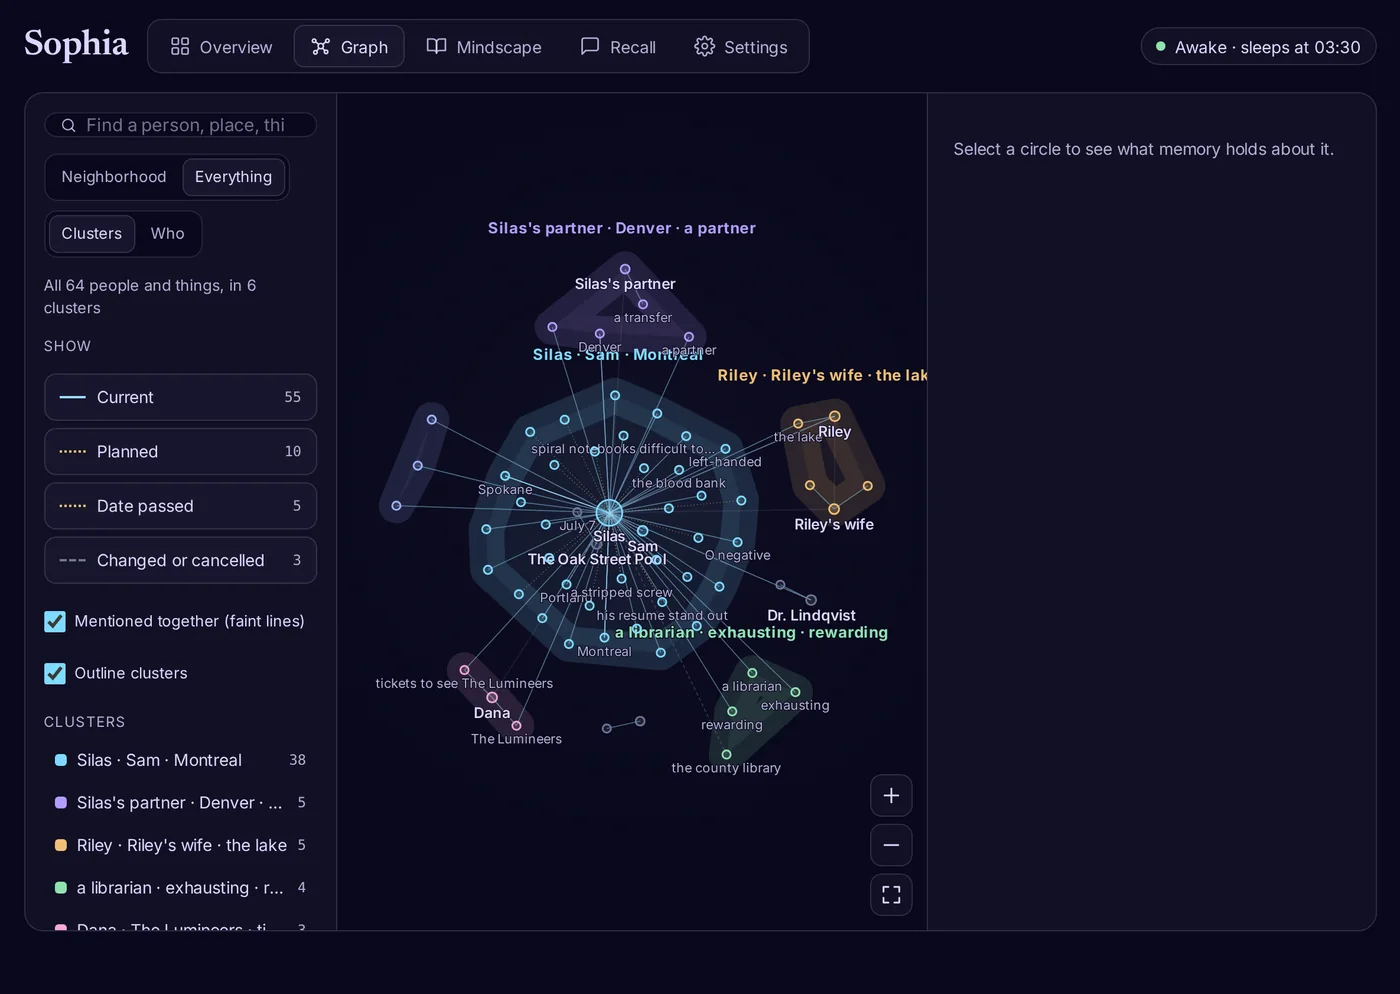
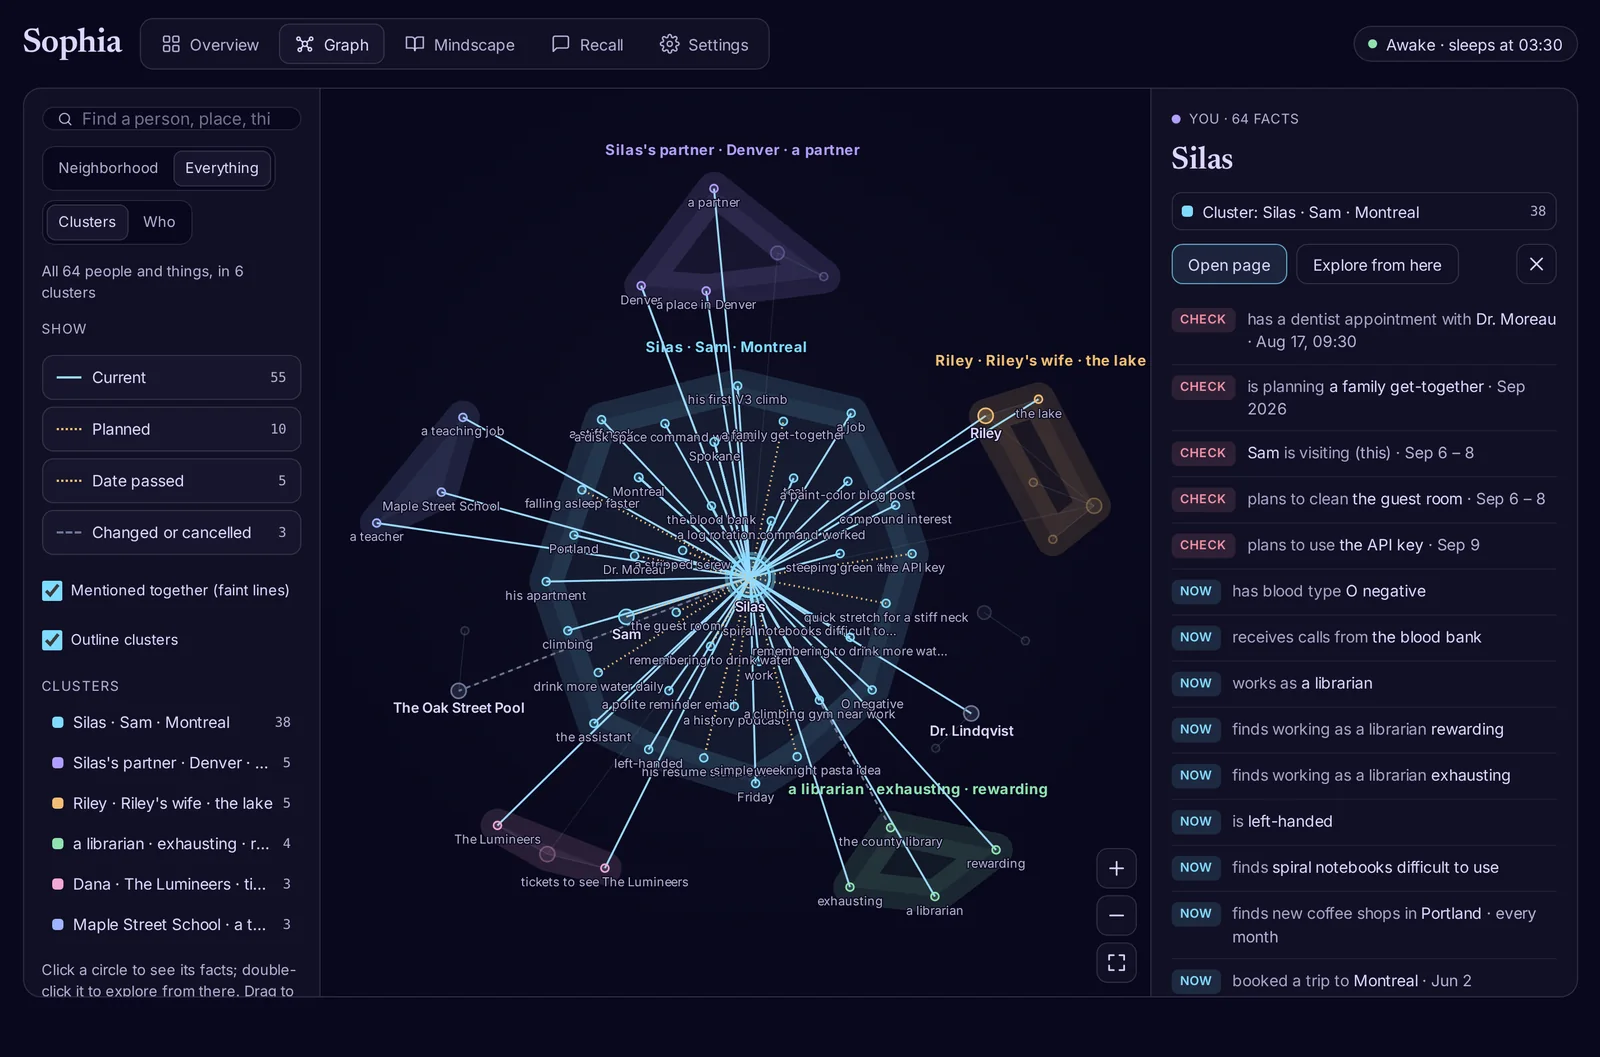
README: what you get over Hermes's own memory, and lead with the graph
- A "What you get" section at the top: Hermes's built-in memory (two notes the
  agent writes, about 3,500 characters) and most memory plugins (services with
  an API key that add their closest few memories every turn), then what Sophia
  does differently.
- The first screenshot is now the graph: everything, by cluster, with one
  person selected and their facts listed. The Mindscape page and a recall sit
  under the quick start; the guide and the phone strip also lead with the graph.
- COMPARISON: Holographic injects the 5 facts that best match the message,
  above a trust floor (checked in its prefetch).

Claude-Session: https://claude.ai/code/session_01178QHXMgRfJBG5o59VoHVR

diff --git a/README.md b/README.md
@@ -4,14 +4,27 @@
 
 **Memory for [Hermes Agent](https://github.com/NousResearch/hermes-agent) that brings up what's relevant before every reply, and tidies itself up while you sleep.** It runs on your own machine, with local models.
 
-## What it does
+## What you get
 
-- **Remembers the actual words.** Conversations are kept verbatim, not summarized. Before each reply, Sophia checks whether anything it remembers bears on your message. If something does, the agent sees the exact past lines, with their dates. If nothing does, it adds nothing. You never have to say "remember this".
-- **Sleeps on it.** Each night it works out who and what you talk about. It notes what changed ("moved from Portland to Denver") and which plans have passed their date. It also writes up what the agent did, and whether it worked.
-- **Lets the agent look things up.** Tools let the agent dig deeper, count and list things, and read a page about any person, place or thing.
-- **Shows you everything, and lets you fix it.** The **Sophia** tab in the Hermes dashboard shows what memory is doing, what the night changed, and what went into each reply. It draws the graph, by neighborhood or by cluster, and lets you read **Mindscape**, the pages the night writes about each person, place and thing. You can change any setting there too, and it works on your phone.
+Hermes already has memory:
+- **Built-in memory** is two short notes the agent writes itself, about 3,500 characters between them.
+- **Most memory plugins** are services with an API key. They store facts or summaries drawn from your conversations, and add the closest few to every turn.
 
-![The Sophia tab's Overview: what memory is doing right now, what last night did, and how recall behaved this week](docs/img/dashboard/overview.webp)
+Sophia works differently:
+
+- **It keeps the actual words.** Every conversation is kept verbatim, with dates. Facts only index the words, so the agent sees what was said, not a summary of it.
+- **It adds nothing when nothing fits.** Plugins usually add their closest memories to every turn: Holographic, for example, adds the five facts that best match the message. Sophia checks first, so a general question like "what's the capital of Australia?" gets no memory at all.
+- **It notices change.** At night it works out what changed ("moved from Portland to Denver") and which plans passed their date without word, so the agent doesn't repeat a stale plan.
+- **It remembers what the agent did.** Every tool call is logged, and each task gets a card: the steps that worked, the dead ends, and how it turned out.
+- **It stays on your machine.** Local models and one SQLite file: no account and no API key.
+- **You can see all of it, and fix it.** The **Sophia** tab in the Hermes dashboard shows:
+  - the graph of who and what you talk about, grouped into clusters;
+  - **Mindscape**, the pages the night writes about each person, place and thing;
+  - what went into each reply, and why.
+
+  Every correction is logged and can be undone, and it works on your phone.
+
+![The Sophia tab's graph: everything Silas has talked about, grouped into clusters, with his facts listed on the right](docs/img/dashboard/graph.webp)
 
 <sub>Screenshots use the synthetic "Silas" life from the <a href="https://github.com/jbpayton/almanac">Almanac</a> benchmark.</sub>
 
@@ -63,7 +76,7 @@ plugins:
 
 Then run `hermes dashboard` and open **Sophia**.
 
-<p><img src="docs/img/dashboard/graph.webp" width="49%" alt="The graph, by cluster: what gets talked about together"> <img src="docs/img/dashboard/recall.webp" width="49%" alt="One recall: how the check read the message, and the lines that went into the prompt"></p>
+<p><img src="docs/img/dashboard/page.webp" width="49%" alt="A Mindscape page: what's believed about Spokane, each fact with the words it came from"> <img src="docs/img/dashboard/recall.webp" width="49%" alt="One recall: how the check read the message, and the lines that went into the prompt"></p>
 
 ## What it looks like
 

diff --git a/docs/COMPARISON.md b/docs/COMPARISON.md
@@ -23,7 +23,7 @@ SodaMem is the closest relative: its data model is nearly Sophia's. It reports 9
 ## Where Sophia plausibly differs
 
 1. **No generated text when something is saved.** Graphiti, Mem0 and Hindsight run LLM extraction as each message is saved. Sophia stores the words and their embeddings immediately and extracts at night on a local model. The only other model call at capture is a one-token check of each live agent reply (point 3). Letta shares the night idea, but for memory blocks rather than a fact graph.
-2. **A check that can inject nothing.** The providers we checked rank memories and inject the top few. For example, Hermes's bundled Holographic provider injects its top 5 facts by trust score. Sophia measured that similarity can't separate an answer from a near-miss (unanswerable near-misses reached 0.78 against 0.80 for real answers). So before anything is injected, a small model reads one token's probabilities over a few options: nothing about you is needed, it's about you but none of these memories fits, or which memory bears on it most directly. Memory stays out when "nothing needed" is clear, and the block is marked as possible matches only when "none fits" outweighs the memories. Rerankers and Self-RAG's "should I retrieve?" step are relatives.
+2. **A check that can inject nothing.** The providers we checked rank memories and inject the top few. For example, Hermes's bundled Holographic provider injects the 5 facts that best match the message, above a trust floor, on every turn. Sophia measured that similarity can't separate an answer from a near-miss (unanswerable near-misses reached 0.78 against 0.80 for real answers). So before anything is injected, a small model reads one token's probabilities over a few options: nothing about you is needed, it's about you but none of these memories fits, or which memory bears on it most directly. Memory stays out when "nothing needed" is clear, and the block is marked as possible matches only when "none fits" outweighs the memories. Rerankers and Self-RAG's "should I retrieve?" step are relatives.
 3. **Its own words can't poison it.** The agent's replies are checked as they are captured. A reply that states facts about you that nothing in the turn supported is kept out of recall. This came from a real failure: in testing, an agent invented where someone's sister lived, and the next session recalled that as memory.
 4. **A memory that tests itself.** Each night Sophia:
    - replays the day's injections to judge which ones were used;

diff --git a/docs/DASHBOARD.md b/docs/DASHBOARD.md
@@ -11,7 +11,7 @@ Sophia adds a tab to the Hermes dashboard for watching her memory, correcting it
 
 It works on a phone as well as on a desktop.
 
-![The Overview on a desktop: the Right now strip, last night, what's in memory, and recall this week](img/dashboard/overview.webp)
+![The graph: everything Silas has talked about, grouped into clusters, with his facts listed on the right](img/dashboard/graph.webp)
 
 *All screenshots use the synthetic "Silas" life from the [Almanac](https://github.com/jbpayton/almanac) benchmark, not anyone's real memory.*
 
@@ -49,6 +49,8 @@ The tab never starts anything on its own:
 - It changes memory only when you press a button.
 
 ## Overview
+
+![The Overview on a desktop: the Right now strip, last night, what's in memory, and recall this week](img/dashboard/overview.webp)
 
 ### Right now
 
@@ -110,9 +112,7 @@ Entries that can be reversed have an **Undo**. An undone entry is struck through
 
 ## Graph
 
-![Everything, by cluster: Silas's own cluster in the middle, and around it the move to Denver, Riley and the lake, the librarian job, a concert and the teaching job](img/dashboard/graph.webp)
-
-The graph has two views.
+The graph has two views. The picture at the top of this page is **Everything**, with Silas selected: his own cluster in the middle, and around it the move to Denver, Riley and the lake, the librarian job, a concert and the teaching job.
 
 **Neighborhood** shows everything within 1 to 4 hops of one person or thing: the center. It opens on you.
 - To change the center, double-click a circle, pick **Explore from here** in its panel, or search.
@@ -218,7 +218,7 @@ Every setting is described in [CONFIGURATION.md](CONFIGURATION.md).
 
 ## On a phone
 
-![Overview, Graph, a page, and the correction sheet on a phone](img/dashboard/phone.webp)
+![The graph, a Mindscape page, the Overview, and the correction sheet on a phone](img/dashboard/phone.webp)
 
 ## Troubleshooting
 
